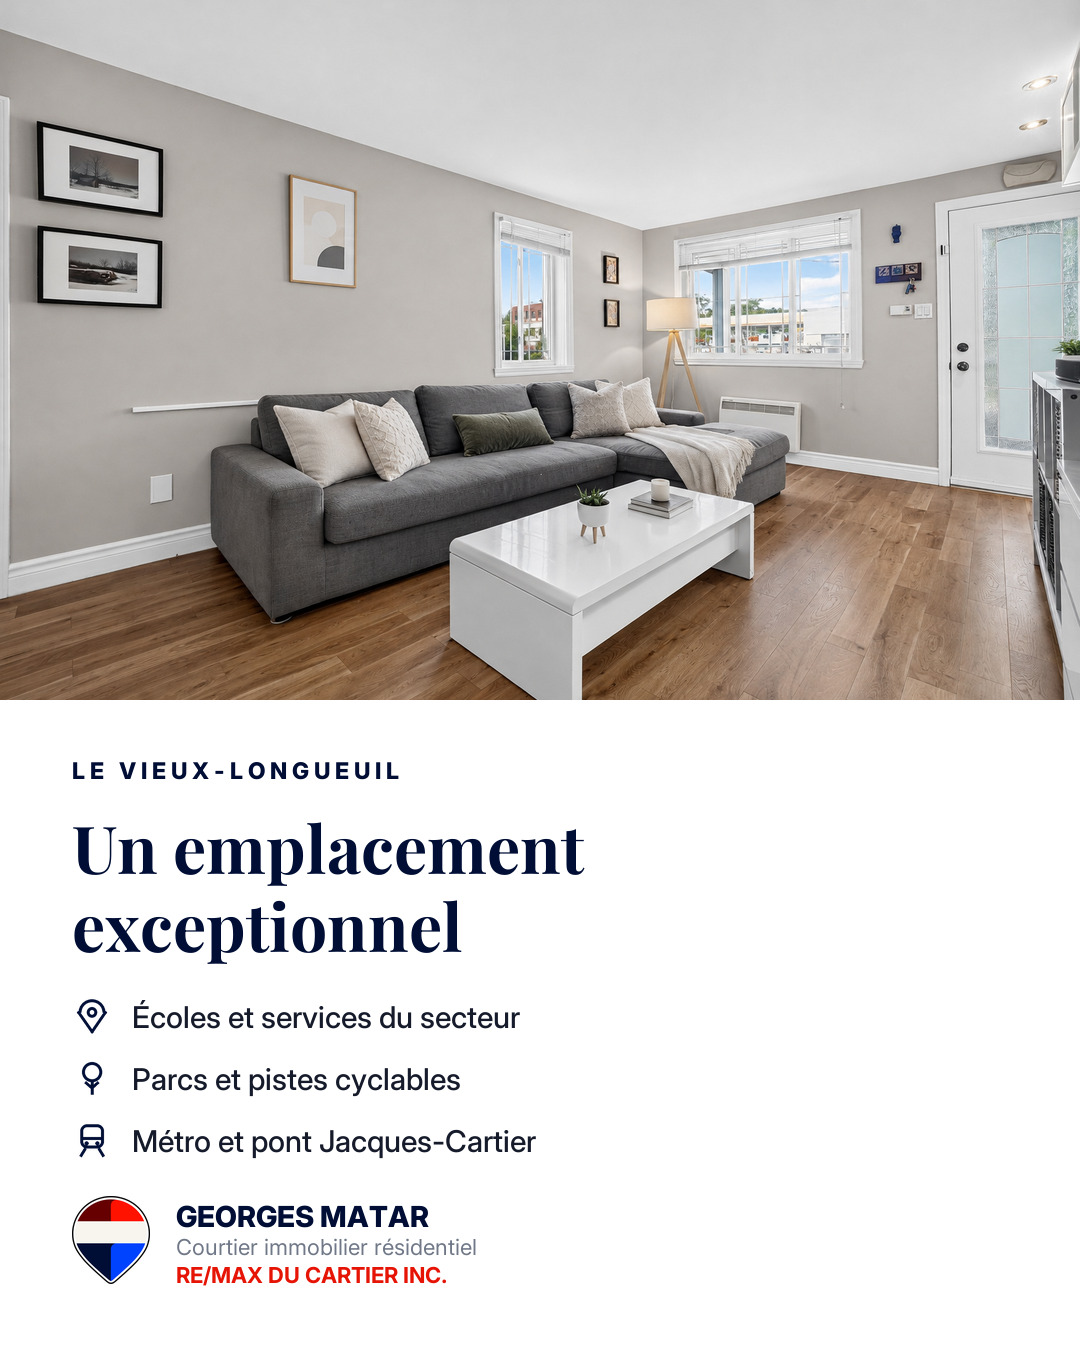
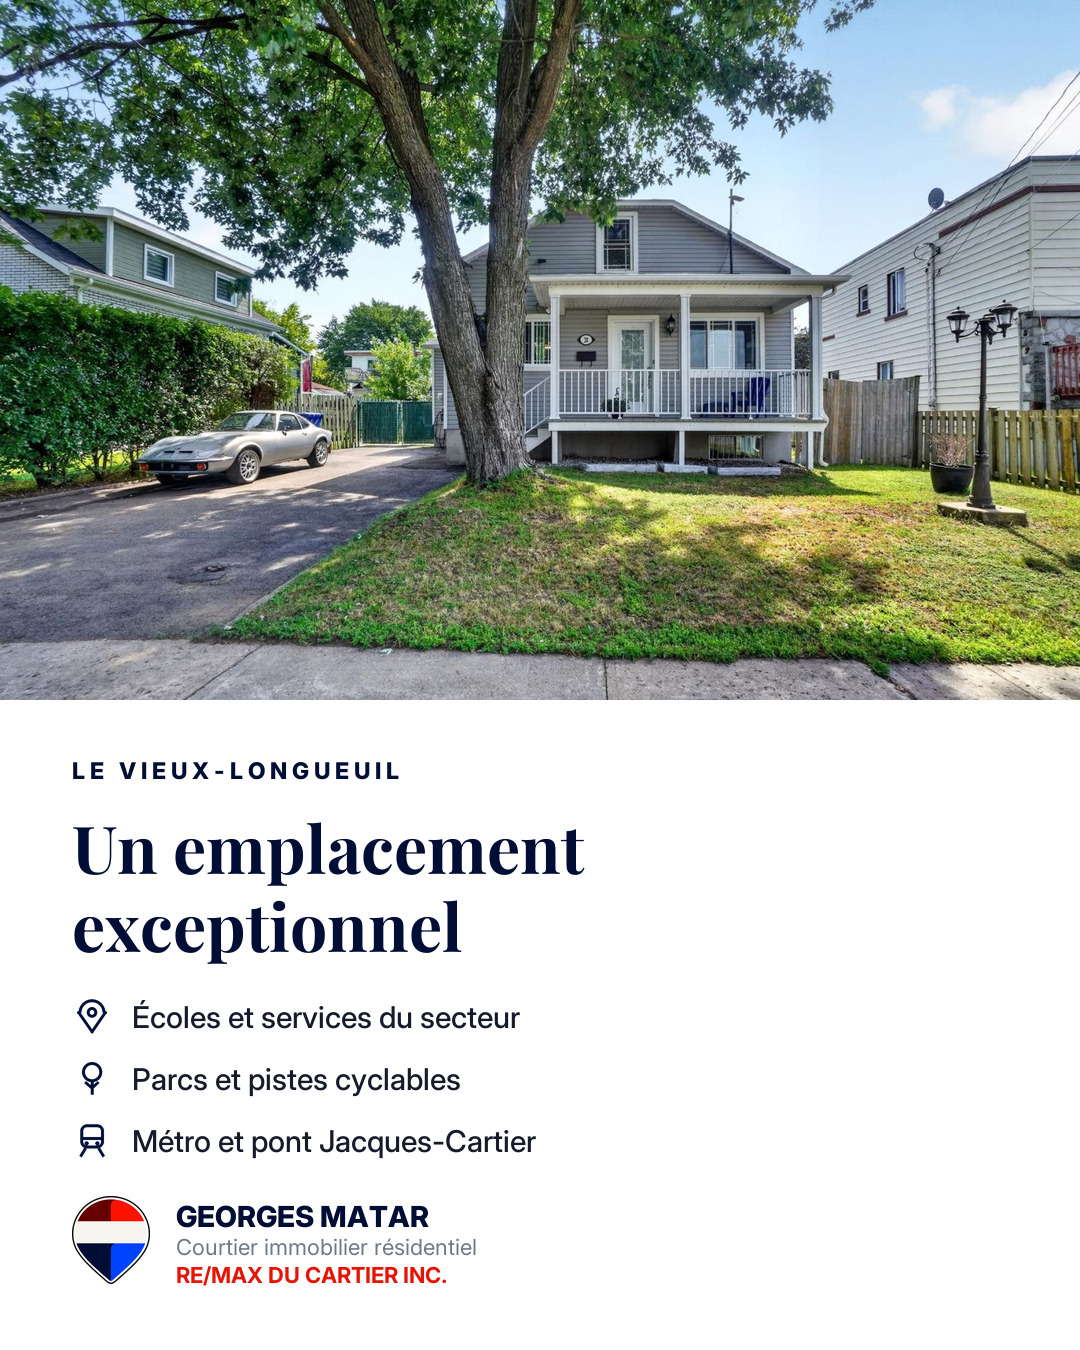
feat: salon pro en couverture, emplacement prend la carte du secteur
La couverture passe du plan de rue au salon. La slide emplacement affiche
sources/carte.png des que le fichier est depose, sinon elle retombe sur la
photo de rue.

diff --git a/carrousel-instagram/generer-carrousel.py b/carrousel-instagram/generer-carrousel.py
@@ -10,6 +10,7 @@ import os
 from PIL import Image, ImageDraw, ImageFont, ImageFilter
 
 SLUG = "28-rue-st-hilaire-longueuil"
+CARTE = "carte.png"                  # capture du secteur, deposee dans sources/
 
 HERE = os.path.dirname(os.path.abspath(__file__))
 ROOT = os.path.dirname(HERE)
@@ -326,7 +327,7 @@ def slide1():
     """Couverture calquee sur le one pager RE/MAX: titre blanc pose au bas de
     la photo, pastille navy NOUVEAUTE, puis bandeau blanc avec le prix."""
     c = base()
-    photo(c, "03.jpg", (0, 0, W, 900), r=0, shad=False)
+    photo(c, "6.png", (0, 0, W, 900), r=0, shad=False, folder=SOURCES)
     gradient(c, 420, 900, 232)
     d = ImageDraw.Draw(c)
 
@@ -451,7 +452,10 @@ def slide6():
     """Photo de rue professionnelle. Les photos de la pancarte prise au
     telephone restent dans sources/ mais ne vont pas dans le carrousel."""
     c = base()
-    photo(c, "6.png", (0, 0, W, 700), r=0, shad=False, folder=SOURCES)
+    if os.path.exists(os.path.join(SOURCES, CARTE)):
+        photo(c, CARTE, (0, 0, W, 700), r=0, shad=False, folder=SOURCES)
+    else:
+        photo(c, "04.jpg", (0, 0, W, 700), r=0, shad=False)
     d = ImageDraw.Draw(c)
 
     y = 756
